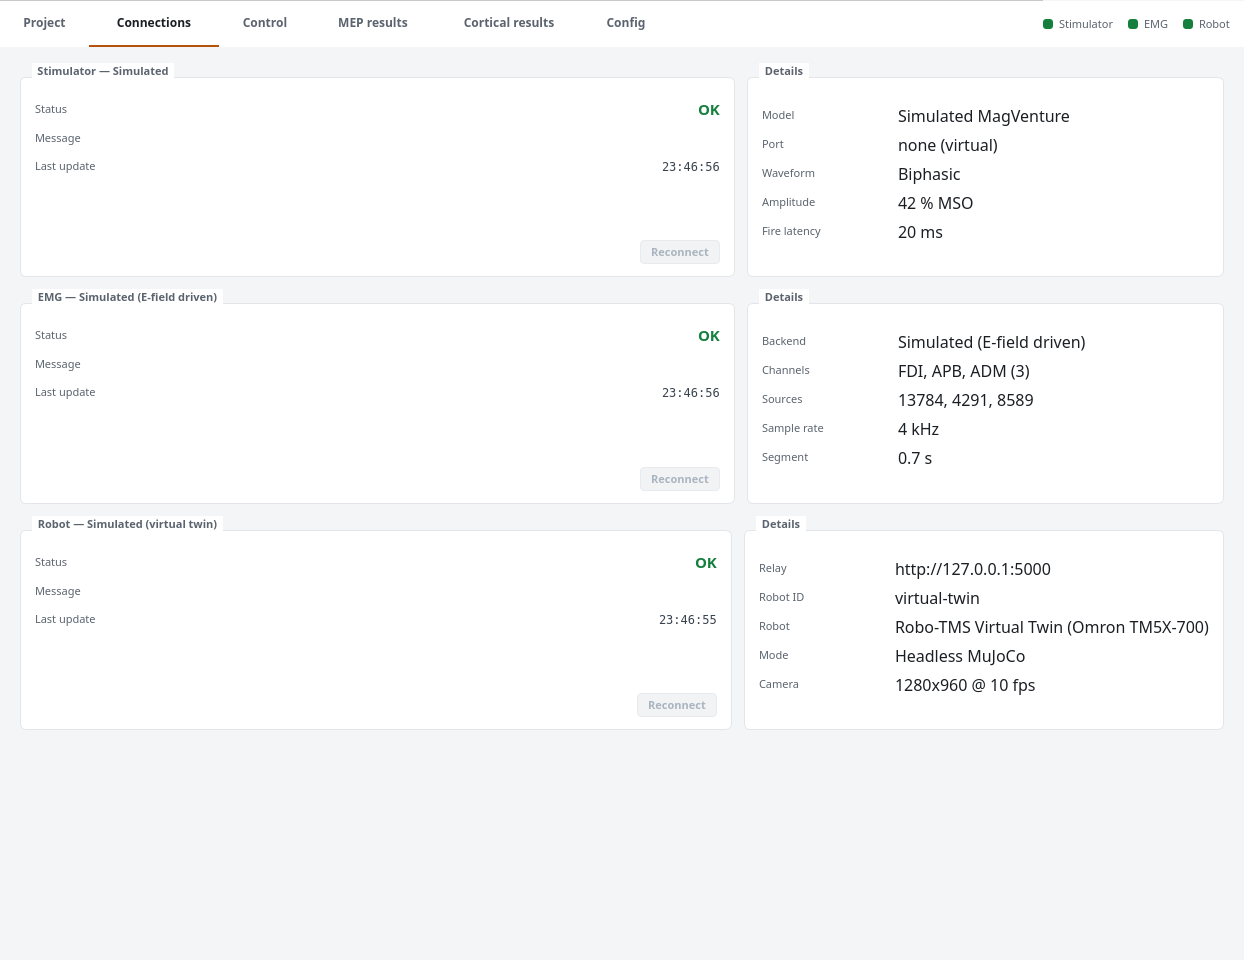
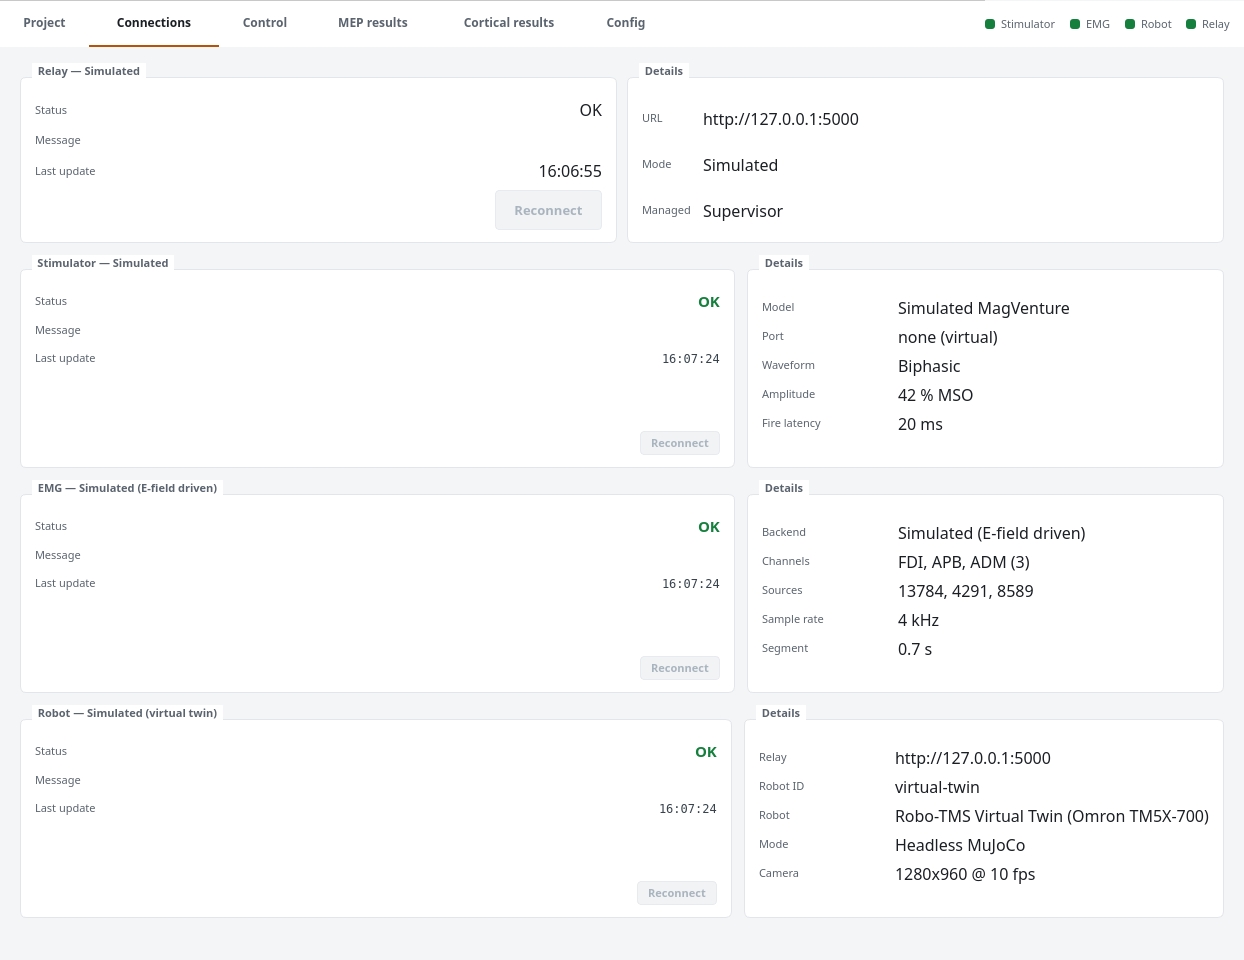
Document the relay card and refine the real-session checklist
Add the relay card, start and restart behaviour, and the revised start order to Connections. Clarify the real-session preparation steps, the single-command scope and the relay startup flag. Refresh the tagline and the Connections screenshot.

diff --git a/docs/site/build.py b/docs/site/build.py
@@ -34,7 +34,7 @@ ROOT = Path(__file__).resolve().parent
 PAGES = ROOT / "pages"
 ASSETS = ROOT / "assets"
 SITE_NAME = "NeuroPilot"
-SITE_TAGLINE = "Guided online TMS mapping with online field optimisation"
+SITE_TAGLINE = "Guided TMS mapping with per-pulse electric fields and online analysis"
 REPO_URL = "https://gitlab.gwdg.de/tms-localization/papers/neuropilot"
 SITE_URL = "https://neuropilot-94ad2d.pages.gwdg.de/"
 

diff --git a/docs/site/pages/run/real.md b/docs/site/pages/run/real.md
@@ -4,7 +4,7 @@ This is the operational page. It assumes the installation, the subject data and
 the lab wiring are done; the goal is that nothing about the software is decided
 for the first time while a subject is in the chair.
 
-!!! danger "Safety — research software, not a medical device"
+!!! danger "Safety: research software, not a medical device"
     NeuroPilot has no medical approval. Real stimulation requires ethics
     approval, a trained operator, the stimulator's own safety limits and written
     consent. This checklist covers the software, not the medical procedure.
@@ -12,41 +12,40 @@ for the first time while a subject is in the chair.
 ## The day before
 
 - [ ] Ethics approval and consent form are on file for this protocol.
-- [ ] The subject's data are pseudonymised; the project name carries no name or
-      date of birth.
-- [ ] Head mesh, ROI, E-field library, placements and order file exist for this
-      subject and pass the [sanity checks](prepare/subject-data.md).
-- [ ] The target-order file was reviewed by the person who owns the protocol.
-- [ ] A study profile is saved with the intended fit function, ISI, amplitude
-      and MEP windows.
-- [ ] `ROOT_FOLDER` has free space for the session and is writable.
-- [ ] The E-field mode is decided: precomputed (library ready) or online
-      (solver loads in about a minute).
+- [ ] T1 and T2 MRI scans acquired for the subject.
+- [ ] SimNIBS head mesh (`m2m_<subj>`) and ROI surface (`geo.hdf5`) created.
+- [ ] Candidate coil placements (`search_positions.hdf5`) and the E-field library (`e.hdf5`) created.
+- [ ] Coil-placement optimization chosen and run; the target-order file is generated.
+- [ ] The prepared files pass the [sanity checks](prepare/subject-data.md).
+- [ ] A study profile is saved with the intended fit function, ISI, amplitude and MEP windows.
+- [ ] The E-field mode is decided: precomputed (library ready) or online (solver loads in about a minute).
 
 ## One hour before
 
-- [ ] Relay running: `python relay_server.py 5000`.
+- [ ] Production relay running: `python relay_server.py 5000`, or use `neuropilot real --launch-relay`, or press **Start relay** on Connections. Skip this line when the controller starts it.
 - [ ] InVesalius running with `--remote-host http://localhost:5000`.
 - [ ] Robot driver running: `python main_loop.py`.
-- [ ] Controller running: `neuropilot real`.
-- [ ] **Connections** page: stimulator, EMG and robot all green.
+- [ ] Controller running: `neuropilot real` (or `neuropilot real --launch-relay`, which also starts the relay).
+- [ ] **Connections** page: relay, stimulator, EMG and robot all green.
 - [ ] **Project** page: the project loads without an error dialog.
 - [ ] **Cortical results**: the mesh is displayed and the coil model is loaded.
 - [ ] Stimulator armed and the amplitude shows the value you expect.
-- [ ] EMG: tapping the electrode produces a visible trace on **MEP results**.
-- [ ] Coil cooling is on; the coil is at room temperature.
-- [ ] The robot's force sensor shows a reading (touch it once if the robot side
-      says `Awaiting valid pressure data`).
+- [ ] The robot's force sensor shows a reading (touch it once if the robot side says `Awaiting valid pressure data`).
+
+!!! note "Only the simulator is one command"
+    `neuropilot sim` starts all four simulated peers. In real mode NeuroPilot
+    starts the controller, and with `--launch-relay` the production relay. The
+    Relay card can also start or restart a relay that NeuroPilot owns.
+    InVesalius and `main_loop.py` are separate applications and must be started
+    as above.
 
 ## Five minutes before
 
 - [ ] Subject seated, head supported, coil cable routed with slack.
-- [ ] Neuronavigation registration accepted; the coil is tracked at the first
-      target.
+- [ ] Neuronavigation registration accepted; the coil is tracked.
 - [ ] Emergency stop within reach of the operator.
 - [ ] **Control** page: E-field mode selected, Start enabled.
-- [ ] Amplitude, repetitions, minimum interval and pulse shape match the
-      protocol.
+- [ ] Amplitude, repetitions, minimum interval and pulse shape match the protocol.
 - [ ] Stop criteria are written down and visible (see below).
 
 ## During the session
@@ -61,7 +60,7 @@ for the first time while a subject is in the chair.
 - **Next** skips a target, **Back** repeats the previous one. A pulse in flight
   cannot be taken back (`Previous ignored: a pulse is in flight.`).
 
-!!! danger "Safety — stop conditions"
+!!! danger "Safety: stop conditions"
     Stop the session with **Move Coil Up** and then **Finish** if the subject
     reports discomfort, the coil overheats, the robot faults, the subject moves
     out of tracking, or the MEPs disappear without an explanation. The software
@@ -83,8 +82,7 @@ for the first time while a subject is in the chair.
 - [ ] Results CSV copied to the study folder and backed up.
 - [ ] R² export and placement log copied next to it.
 - [ ] The E-field library used for the session archived with the results.
-- [ ] The session notes record amplitude, coil, E-field mode, pulse count and
-      any skipped targets.
+- [ ] The session notes record amplitude, coil, E-field mode, pulse count and any skipped targets.
 - [ ] The subject's data folder is checked for accidental identifiers.
 
 ## If something goes wrong
@@ -96,11 +94,10 @@ for the first time while a subject is in the chair.
 | Stimulator does not fire | Check the stimulator card and the serial port; **Finish** if it persists |
 | EMG traces are flat | Check the amplifier and the share; the session can continue but the MEPs are lost |
 | Controller freezes | Kill and restart the controller; the results of completed pulses are in the CSV |
-| Wrong project loaded | Stop the run, reload the project, restart the mapping |
 
 See [Troubleshooting](reference/troubleshooting.md) for the full table.
 
 ## Next
 
-- [Manual mode](run/manual.md) — the same session without a robot.
-- [Export and data formats](results/export.md) — what the session leaves behind.
+- [Manual mode](run/manual.md): the same session without a robot.
+- [Export and data formats](results/export.md): what the session leaves behind.

diff --git a/docs/site/pages/gui/connections.md b/docs/site/pages/gui/connections.md
@@ -5,8 +5,8 @@ LED, the last message, the connection details and a **Reconnect** button. Start
 is gated on this page being green.
 
 <figure>
-  <img src="assets/screenshots/connections-sim.png" alt="The Connections page in simulation mode with the stimulator, EMG and robot cards green.">
-  <figcaption>Three cards in simulation. Each shows the status, the last
+  <img src="assets/screenshots/connections-sim.png" alt="The Connections page in simulation mode with the relay, stimulator, EMG and robot cards green.">
+  <figcaption>Four cards in simulation. Each shows the status, the last
   message and the connection details the system publishes.</figcaption>
 </figure>
 
@@ -14,12 +14,15 @@ is gated on this page being green.
 
 | Card | Backend (simulation) | Backend (real) |
 |---|---|---|
+| **Relay** | `sim_relay` (supervisor) | production `relay_server.py`; NeuroPilot can start and restart it |
 | **Stimulator** | virtual stimulator | your stimulator via `magicpy` on `STIMULATOR_PORT` |
 | **EMG** | virtual EMG computer | your EMG PC's share (`EMG_COMPUTER_IP`) |
 | **Robot** | virtual MuJoCo robot | `tms-robot-control` over the relay |
 
 In manual and training modes the robot card is absent. In training the
-stimulator card is real and the EMG card is the virtual EMG.
+stimulator card is real and the EMG card is the virtual EMG. The relay card is
+present in every mode: in simulation it is owned by the supervisor; in real,
+manual and training modes NeuroPilot can start and restart a production relay.
 
 ## What a card shows
 
@@ -35,6 +38,7 @@ stimulator card is real and the EMG card is the virtual EMG.
 
 | System | Details |
 |---|---|
+| Relay | URL, mode (simulated/production), managed by, PID and log file |
 | Stimulator | port, TTL port, connected, model, serial number, coil type, waveform, temperature |
 | EMG | transport (`SMB2`), host, share, user, channel names and count |
 | Robot | relay URL, robot ID, model/firmware from the robot's `info{}`, link state |
@@ -57,6 +61,7 @@ The health loop runs at about 1 Hz. A card can lag a second behind reality; the
 
 Start is enabled only when:
 
+- the **relay** is ready,
 - the **robot** is ready (or the session is in manual or training mode),
 - the **stimulator** is ready,
 - the **EMG** is ready,
@@ -75,12 +80,18 @@ If the button is disabled, the system reports no software recovery for its
 current error; the message says what failed and the fix is on the hardware side
 (cable, power, network, robot mode).
 
+The relay card uses **Start relay** when no relay is running and **Restart relay**
+when NeuroPilot owns one. An externally started relay is shown as `External` and
+is left alone.
+
 ## Real mode order
 
-1. Relay.
+1. Relay: `python relay_server.py 5000`, or let the controller start it with
+   `neuropilot real --launch-relay`.
 2. InVesalius (with the remote-control server).
 3. `main_loop.py`.
-4. The controller.
+4. The controller: `neuropilot real` (or `--launch-relay`, which also starts
+   the relay).
 
 If the robot card is red with a connection message, check that `main_loop.py` is
 running and that the robot's Modbus/listen services are enabled. See
@@ -88,9 +99,10 @@ running and that the robot's Modbus/listen services are enabled. See
 
 ## Training order
 
-1. Relay.
+1. Relay: `python relay_server.py 5000`, or let the controller start it with
+   `neuropilot training --launch-relay`.
 2. InVesalius (with the remote-control server).
-3. `neuropilot training`.
+3. `neuropilot training` (or `--launch-relay`, which also starts the relay).
 
 No robot driver and no EMG PC are needed. The stimulator card is the real
 device; the EMG card is the E-field-driven virtual EMG.
@@ -101,7 +113,7 @@ device; the EMG card is the E-field-driven virtual EMG.
 
 ## Simulation
 
-In simulation all three cards go green immediately and the details show the
+In simulation all four cards go green immediately and the details show the
 virtual devices (the simulated stimulator model, the virtual EMG channels, the
 MuJoCo robot). A red card in simulation means a component failed to start —
 check the terminal for the component's log prefix.

diff --git a/docs/site/pages/install/hardware.md b/docs/site/pages/install/hardware.md
@@ -83,8 +83,9 @@ The relay is `relay_server.py` from `tms-robot-control`; with
 TMS_ROBOT_CONTROL_PATH=/opt/tms-robot-control
 ```
 
-`neuropilot real --launch-relay` starts it for you. For a dry run without
-hardware, `neuropilot relay` starts the simulated relay instead.
+`neuropilot real --launch-relay` starts and manages it for you; the Relay
+card on Connections can start or restart it. For a dry run without hardware,
+`neuropilot relay` starts the simulated relay instead.
 
 ## 4. Neuronavigation PC
 

diff --git a/docs/site/pages/gui/config.md b/docs/site/pages/gui/config.md
@@ -35,7 +35,7 @@ page documents the controls.
 | Field | Key | Notes |
 |---|---|---|
 | **Model** | `ROBOT` | the list comes from `sim_robot/robots.py`; an unknown value stays visible and is reported on save |
-| **tms-robot-control** | `TMS_ROBOT_CONTROL_PATH` | used by `neuropilot real --launch-relay` |
+| **tms-robot-control** | `TMS_ROBOT_CONTROL_PATH` | used by `--launch-relay` and the Relay card to start the production relay |
 
 ### Stimulator
 

diff --git a/docs/site/pages/reference/cli.md b/docs/site/pages/reference/cli.md
@@ -58,7 +58,7 @@ neuropilot real --launch-relay
 
 | Flag | Meaning |
 |---|---|
-| `--launch-relay` | also start the production relay from `TMS_ROBOT_CONTROL_PATH` |
+| `--launch-relay` | let the controller start and own the production relay from `TMS_ROBOT_CONTROL_PATH` |
 
 Without the flag the controller **expects** a relay on `RELAY_HOST:RELAY_PORT`
 and prints a reminder. With the flag but no `TMS_ROBOT_CONTROL_PATH` it exits 1

diff --git a/docs/site/pages/config/env.md b/docs/site/pages/config/env.md
@@ -49,7 +49,7 @@ cp .env.example .env
 | Key | Default | Meaning | Restart |
 |---|---|---|---|
 | `ROBOT` | `omron` | simulated robot model (key from `sim_robot/robots.py`) | yes |
-| `TMS_ROBOT_CONTROL_PATH` | empty | `tms-robot-control` checkout for `--launch-relay` | yes |
+| `TMS_ROBOT_CONTROL_PATH` | empty | `tms-robot-control` checkout for starting the relay (`--launch-relay` or the Relay card) | yes |
 
 ### Stimulator
 
